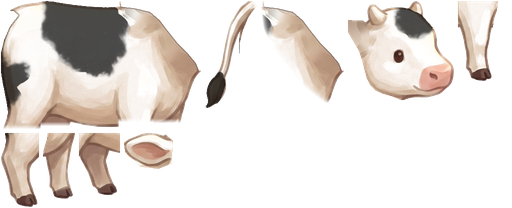
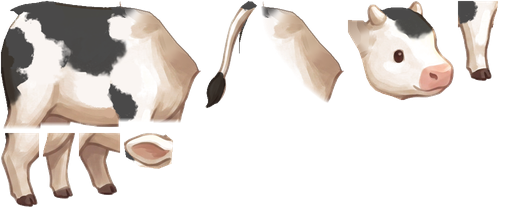
v82: grey cow coat; new spotted cow coat

diff --git a/index.html b/index.html
@@ -218,7 +218,7 @@ body.overview .hud, body.overview .stick-zone, body.overview .guide, body.overvi
 <script>
 // ===================== Общие настройки =====================
 const DPR = Math.min(window.devicePixelRatio || 1, 3);
-const GAME_VERSION = 80;   // совпадает с номером в sw.js (farm-vN); видно в окне «Заново»
+const GAME_VERSION = 82;   // совпадает с номером в sw.js (farm-vN); видно в окне «Заново»
 // Слои земли (трава, дорожки, поля, тени) — глубже любых персонажей и деревьев, даже с отрицательной y
 const GROUND = -5000;
 // Карта: y от −1000 до 2000. Верх (y < 0) — поле с пшеницей, низ (y > 1000) — пастбище Нанамина
@@ -2471,7 +2471,7 @@ const COW_SCALE = 0.3;               // коровка на поле ≈ 86×63
 const COW_LAYERS = ['tail', 'leg-back-far', 'leg-front-far', 'leg-back-near', 'leg-front-near', 'body', 'neck', 'head'];   // снизу вверх; ушко — внутри головы
 const cowPiv = k => [COW_PARTS[k][6], COW_PARTS[k][7]];
 // Расцветки: у всех одна раскладка деталей (COW_PARTS), разные только картинки. Коровка i берёт расцветку COW_SKINS[i % длина]
-const COW_SKINS = ['cowWhite', 'cowPyatna', 'cowBrown', 'cowRyzhaya', 'cowShokolad'];   // белая, пятнистая, коричневая, рыжая, шоколадная (перекрашены вручную)
+const COW_SKINS = ['cowWhite', 'cowPyatna', 'cowBrown', 'cowRyzhaya', 'cowShokolad', 'cowSeraya'];   // белая, пятнистая, коричневая, рыжая, шоколадная, серая (перекрашены вручную)
 function registerCowFrames() {
   for (const key of COW_SKINS) {
     const t = scene.textures.get(key);
@@ -2733,6 +2733,7 @@ class FarmScene extends Phaser.Scene {
     this.load.image('cowBrown', 'assets/cows/cow-brown.png');
     this.load.image('cowRyzhaya', 'assets/cows/cow-ryzhaya.png');
     this.load.image('cowShokolad', 'assets/cows/cow-shokolad.png');
+    this.load.image('cowSeraya', 'assets/cows/cow-seraya.png');
     this.load.image('fence', 'assets/fence/fence.png');
     for (const k of new Set([...GARDEN.map(g => g[0]).filter(k => k.startsWith('g-')), 'g-pond', 'g-iro'])) this.load.image(k, 'assets/garden/' + k.slice(2) + '.webp');
     this.load.image('kale', 'assets/chars/kale.png');

diff --git a/sw.js b/sw.js
@@ -4,7 +4,7 @@
 //  • картинки и движок — сразу из сохранённой копии (без похода в сеть при каждом запуске).
 //    Когда выходит новая версия (меняется CACHE), новый service worker при установке
 //    обновляет все файлы — неизменённые браузер не скачивает заново (сверяет и получает «не изменился»).
-const CACHE = 'farm-v80';
+const CACHE = 'farm-v82';
 const CORE = [
   './',
   './index.html',
@@ -19,6 +19,7 @@ const CORE = [
   './assets/cows/cow-brown.png',
   './assets/cows/cow-ryzhaya.png',
   './assets/cows/cow-shokolad.png',
+  './assets/cows/cow-seraya.png',
   './assets/fence/fence.png',
   ...['pond', 'iro', 'rock-moss-flowers', 'rock-leaning-a', 'rock-leaning-b', 'rock-poppies-a', 'rock-poppies-b', 'rock-flat-daisies', 'rock-long', 'rock-twin',
       'pebbles-a', 'pebbles-b', 'bush-poppy', 'tuft-clover', 'tuft-cornflower', 'tuft-poppy', 's2-branchy-2', 's2-branchy-3', 's1-oak-1', 's1-grove-1']
